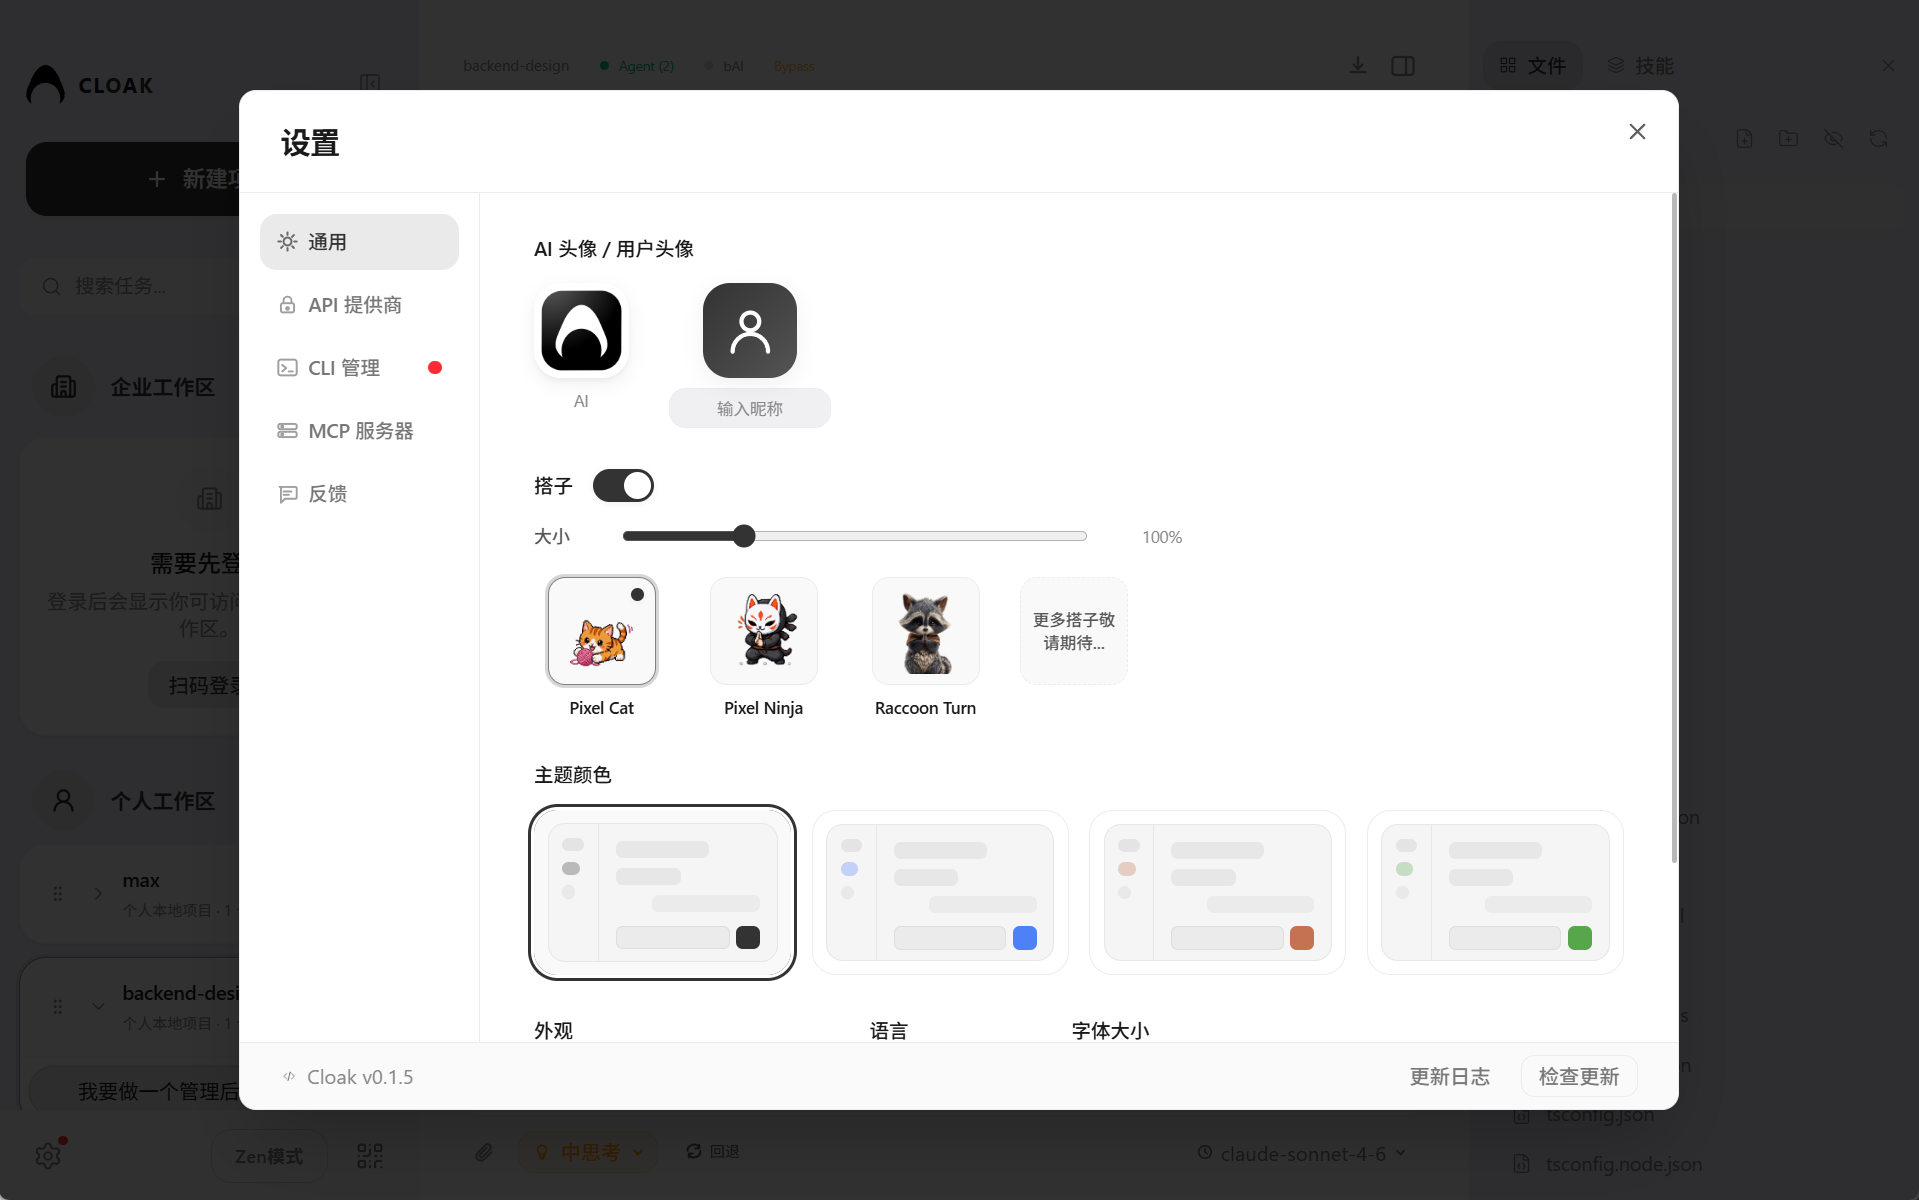
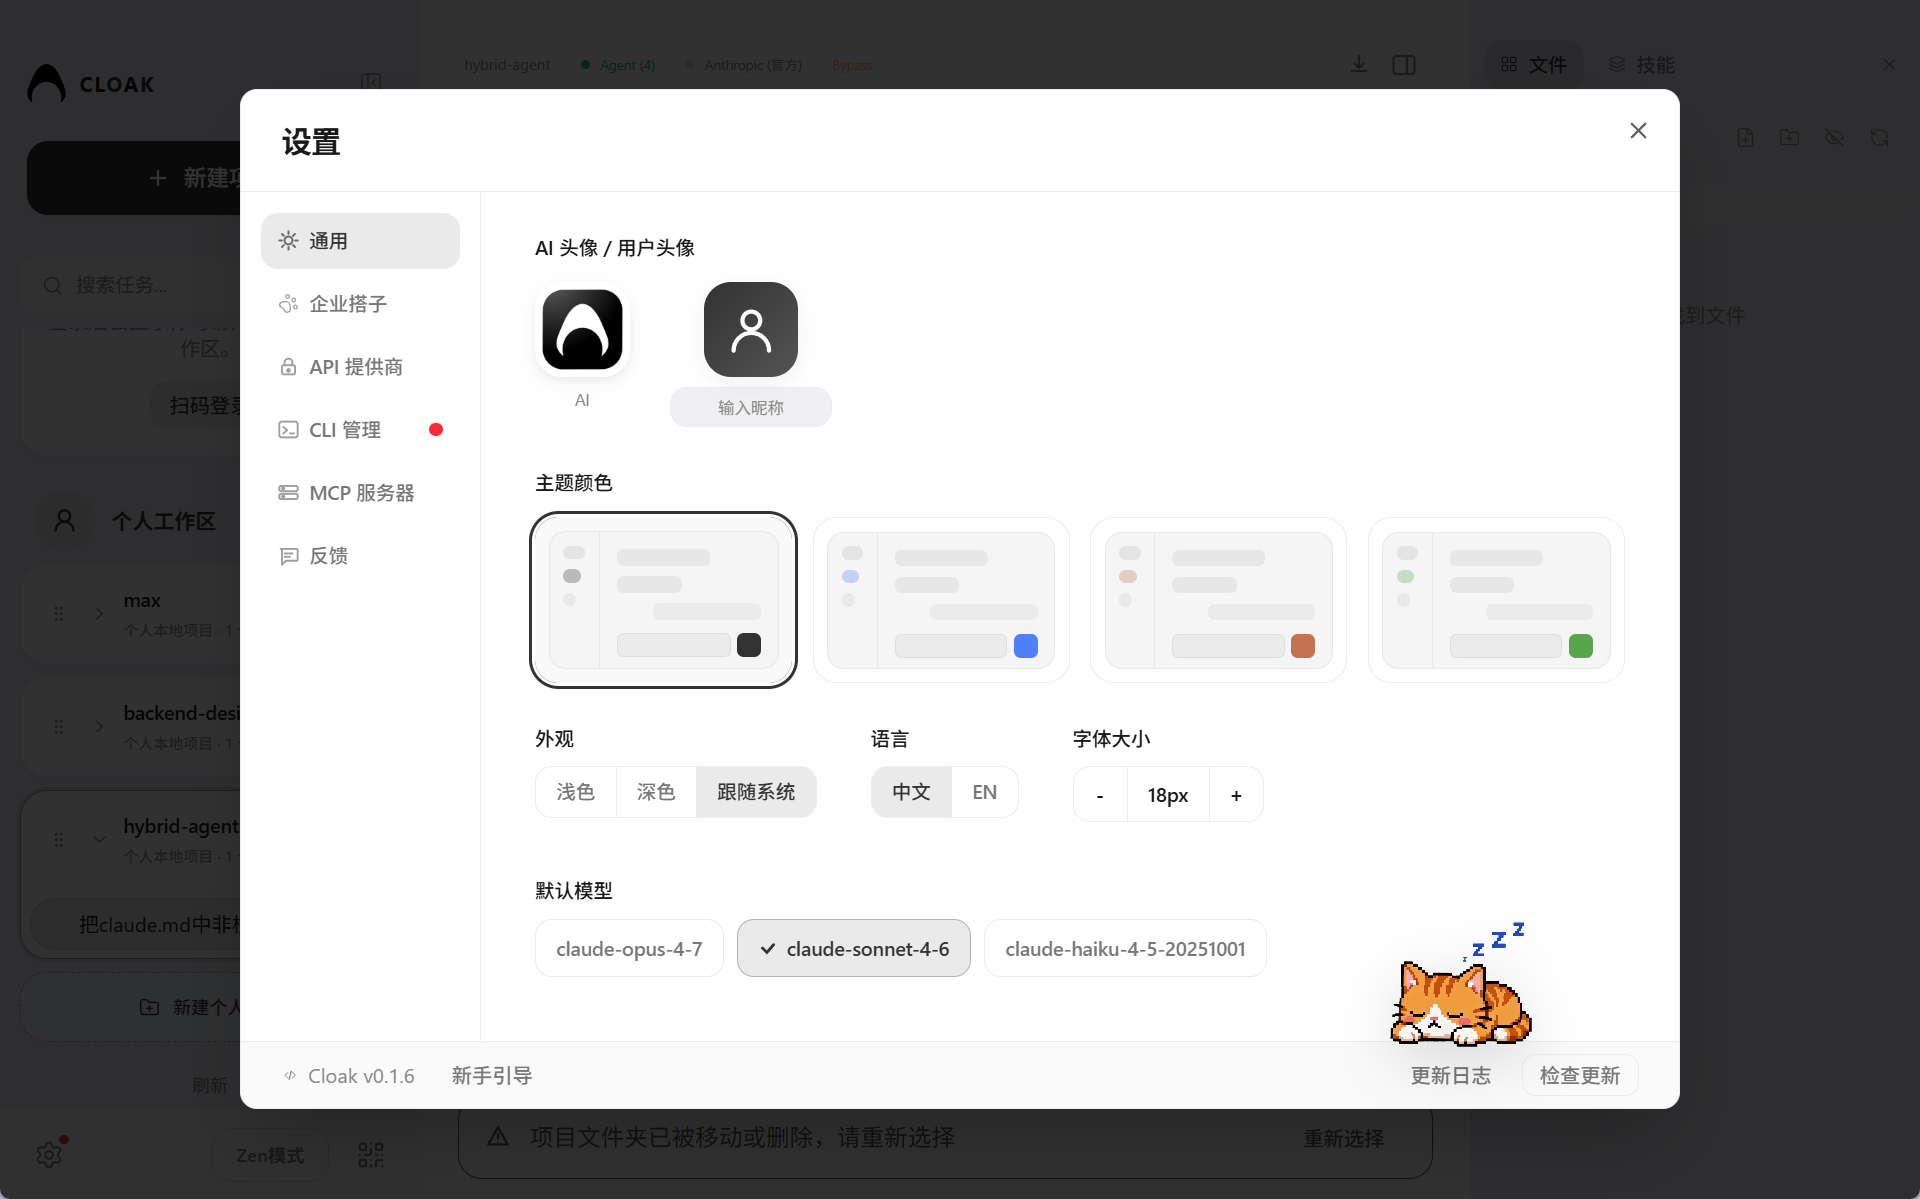
docs: update readme for v0.1.6

diff --git a/README.md b/README.md
@@ -6,7 +6,7 @@
 
 **面向企业全员的 AI 工作平台，让组织的智力资产越用越厚**
 
-[![版本](https://img.shields.io/badge/版本-0.1.5-blue)](https://github.com/43-COLLEGE-TEAM/Cloak/releases/tag/v0.1.5)
+[![版本](https://img.shields.io/badge/版本-0.1.6-blue)](https://github.com/43-COLLEGE-TEAM/Cloak/releases/tag/v0.1.6)
 [![平台](https://img.shields.io/badge/平台-Windows%20%7C%20macOS%20%7C%20Linux-lightgrey)](#下载)
 [![License](https://img.shields.io/badge/License-Proprietary-red)](#)
 
@@ -43,15 +43,15 @@
 
 ## 下载
 
-> 当前版本：**0.1.5**  
-> 发布页：[43-COLLEGE-TEAM/Cloak](https://github.com/43-COLLEGE-TEAM/Cloak/releases/tag/v0.1.5)
+> 当前版本：**0.1.6**
+> 发布页：[43-COLLEGE-TEAM/Cloak](https://github.com/43-COLLEGE-TEAM/Cloak/releases/tag/v0.1.6)
 
 | 系统 | 下载 |
 |------|------|
-| 🪟 Windows | [点击下载](https://github.com/43-COLLEGE-TEAM/Cloak/releases/download/v0.1.5/Cloak_0.1.5_x64-setup.exe) |
-| 🍎 macOS（M 系列芯片）| [点击下载](https://github.com/43-COLLEGE-TEAM/Cloak/releases/download/v0.1.5/Cloak_0.1.5_aarch64.dmg) |
-| 🍎 macOS（Intel 芯片）| [点击下载](https://github.com/43-COLLEGE-TEAM/Cloak/releases/download/v0.1.5/Cloak_0.1.5_x64.dmg) |
-| 🐧 Linux | [点击下载](https://github.com/43-COLLEGE-TEAM/Cloak/releases/download/v0.1.5/Cloak_0.1.5_amd64.AppImage) |
+| 🪟 Windows | [点击下载](https://github.com/43-COLLEGE-TEAM/Cloak/releases/download/v0.1.6/Cloak_0.1.6_x64-setup.exe) |
+| 🍎 macOS（M 系列芯片）| [点击下载](https://github.com/43-COLLEGE-TEAM/Cloak/releases/download/v0.1.6/Cloak_0.1.6_aarch64.dmg) |
+| 🍎 macOS（Intel 芯片）| [点击下载](https://github.com/43-COLLEGE-TEAM/Cloak/releases/download/v0.1.6/Cloak_0.1.6_x64.dmg) |
+| 🐧 Linux | [点击下载](https://github.com/43-COLLEGE-TEAM/Cloak/releases/download/v0.1.6/Cloak_0.1.6_amd64.AppImage) |
 
 不知道自己的 Mac 是哪种芯片？点左上角苹果图标 → **关于本机**，看「芯片」那一行。写着 M1 / M2 / M3 / M4 就选 M 系列，写着 Intel 就选 Intel。
 
@@ -114,6 +114,12 @@ Cloak 内置了以下服务商，选好后点对应链接去注册获取 Key：
 ---
 
 ## 更新记录
+
+### v0.1.6
+- 优化企业工作区体验，支持更自然地使用团队资料进行对话
+- 优化云端文件使用与工作区状态展示
+- 优化账号配置同步与基础组件更新体验
+- 修复若干已知问题，提升整体稳定性
 
 ### v0.1.5
 - 修复个人项目上传的自定义背景图会保存到应用数据目录，并通过本地文件资源地址加载，避免打包后引用失效
